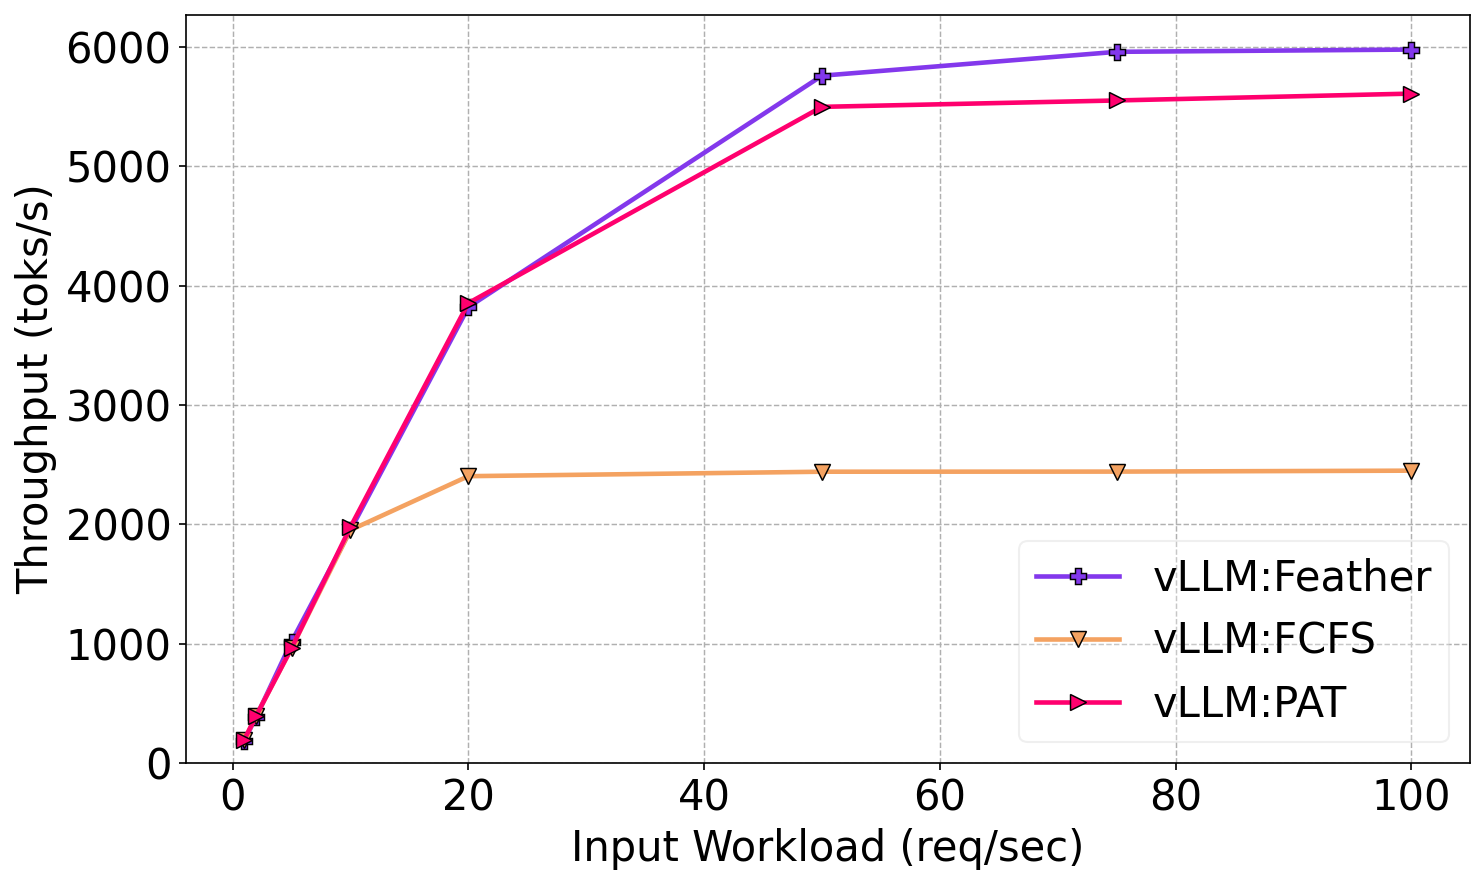
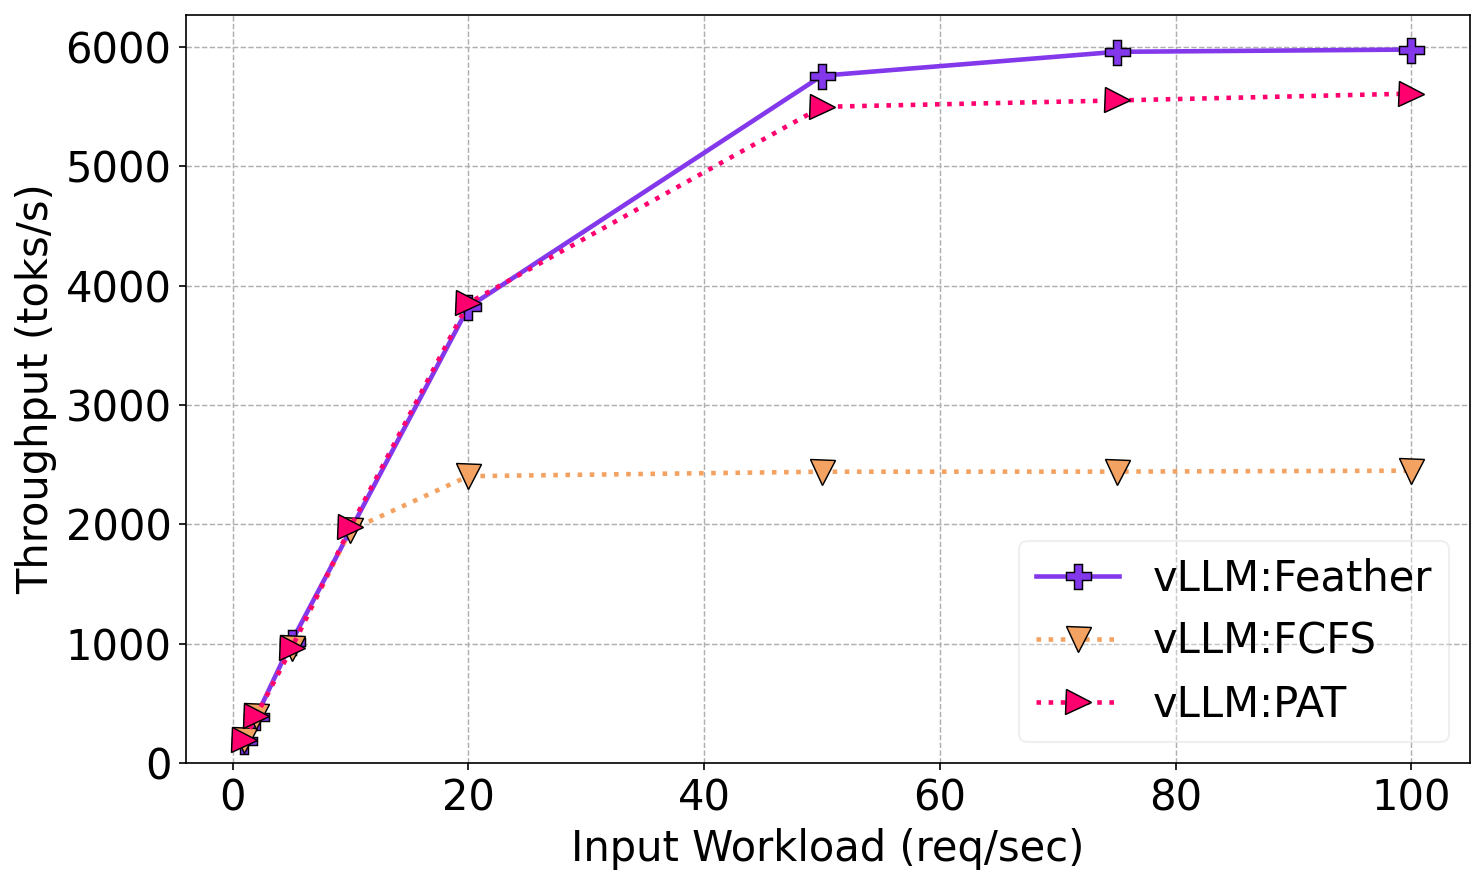
marker size increased

diff --git a/code/vllm/pat_logs/plot.py b/code/vllm/pat_logs/plot.py
@@ -1,10 +1,3 @@
-#!/usr/bin/env python3
-"""
-Plot Throughput vs RPS:
-  - Feather: parsed from run_rate_<rps>.log files
-  - FLASH_ATTN / PREFIX_ATTN: parsed from e2e_perf.jsonl
-"""
-
 import os, re, glob, json
 import numpy as np
 import matplotlib
@@ -92,7 +85,7 @@ PALETTE = [
 ]
 
 MARKERS = ["P","v", ">", "s", "D", "^" , "X", "*", "<"]
-LINESTYLES = ["-"]
+LINESTYLES = ["-", ":", ":"]
 
 fig, ax = plt.subplots(figsize=(10, 6))
 
@@ -117,7 +110,7 @@ for i, (label, xs, ys) in enumerate(series):
         marker=MARKERS[i % len(MARKERS)],
         linestyle=LINESTYLES[i % len(LINESTYLES)],
         linewidth=2.2,
-        markersize=8,
+        markersize=12,
         markeredgecolor="black",
         markeredgewidth=0.7,
         color=PALETTE[i % len(PALETTE)],
